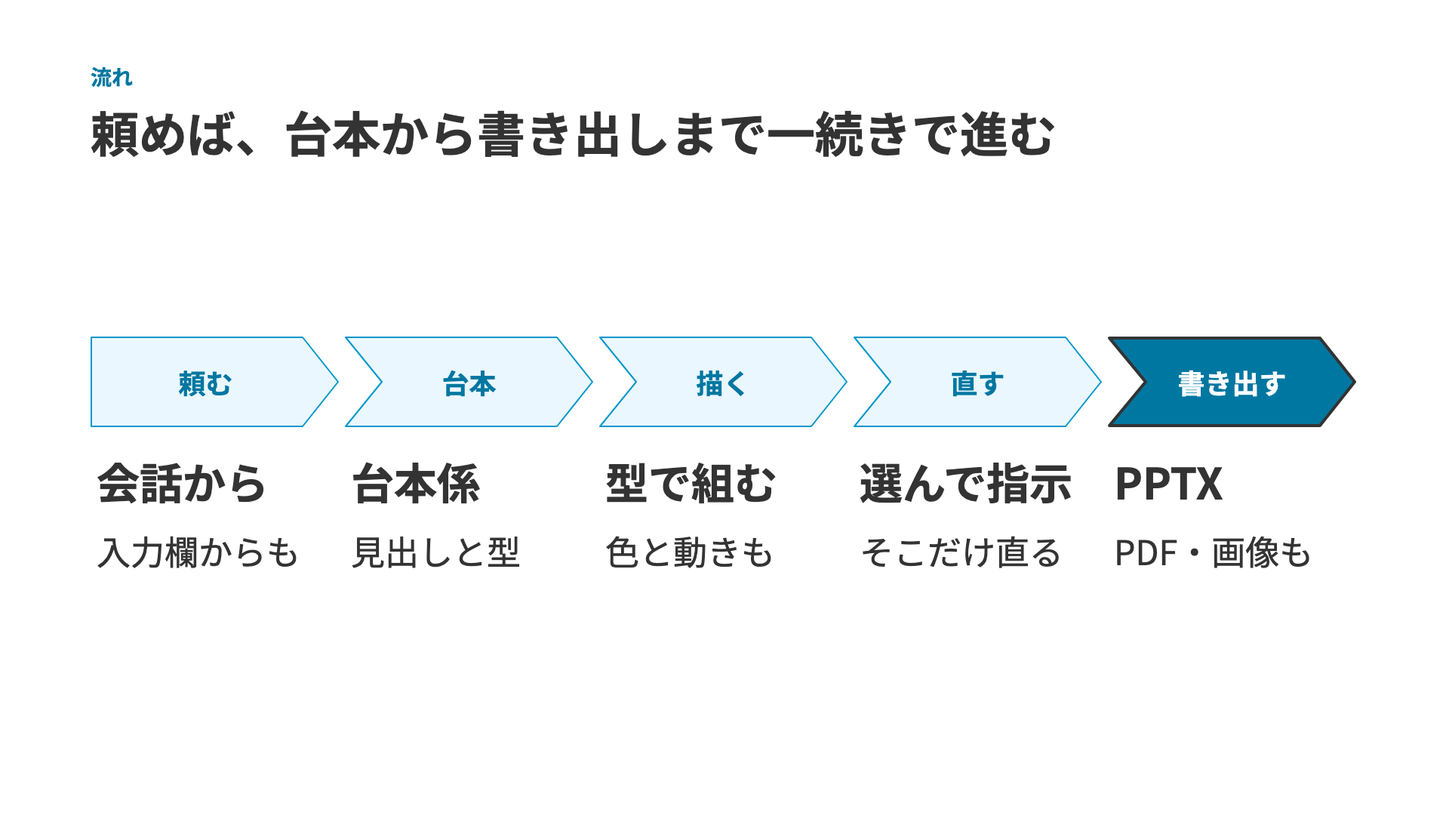
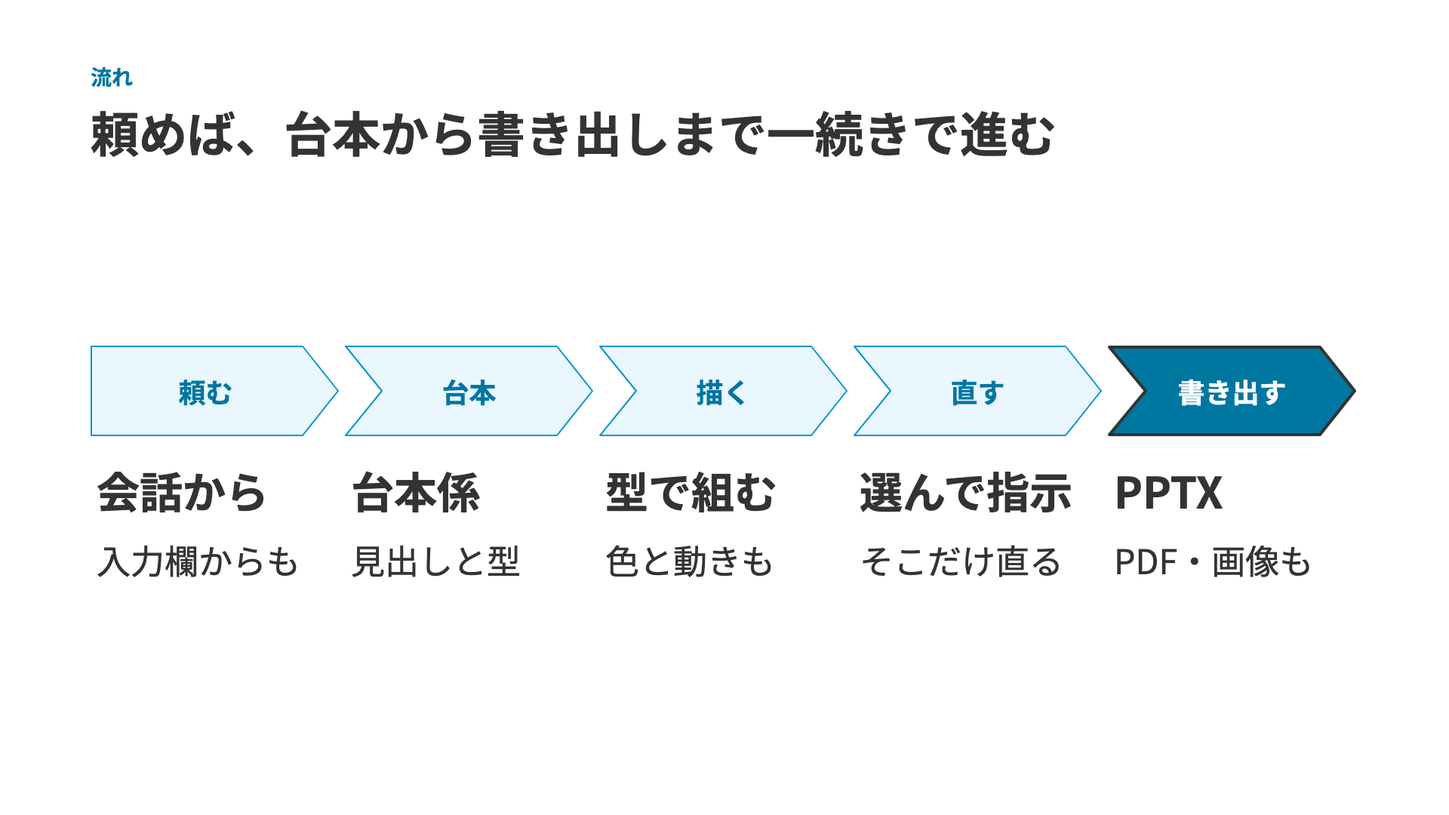
feat(html-slide): 見出しと中身の間を 64 に広げる（入らないページだけ 40 に詰める）
見出しのすぐ下から箱が始まり、窮屈に見えていた。見本 31 枚で、文字の大きさが変わるのは 1 枚。
64 では中身が入らないページは、今までの間（40）で組む（今まで通っていた台本を止めない）。同梱のプレゼンの見本も作り直す。

diff --git a/samples/presentation/built/run/present/deck.html b/samples/presentation/built/run/present/deck.html
@@ -524,39 +524,39 @@
     <section data-slide data-type="equation" data-transition="fade">
       <div class="band" data-keep="band" data-name="上の帯"></div>
       <div class="head" style="width:1680px; top:80px"><div class="kicker" style="font-size:28px" data-name="小見出し">仕組み</div><h1 class="headline" style="font-size:80px; line-height:1.4" data-step="0" data-fx="rise" data-name="見出し">型とブランドと動きが、PowerPoint で<em>直せる資料</em>になる</h1></div>
-      <div class="center" style="left:120px; top:394px; width:1680px; height:558px;"><div class="row" style="height:471px"><div class="card eq-box" style="width:354.00px" data-step="1" data-fx="rise" data-delay="100" data-name="要素1"><div class="icon-disc" style="width:128px; height:128px; border-radius:9999px; background-color:var(--tint); margin-bottom:24px;"><svg width="64" height="64" viewBox="0 -960 960 960"><path d="M480-130 120-410l50-37 310 241 310-241 50 37-360 280Zm0-152L120-562l360-280 360 280-360 280Zm0-301Zm0 225 262-204-262-204-262 204 262 204Z" style="fill:var(--disc-ink, var(--primary-text))"/></svg></div><div class="eq-title" style="font-size:45px">画面の型</div><div class="eq-body" style="font-size:26px">中身に合う形を選ぶ</div></div><div class="eq-op" style="width:88px" data-step="2" data-fx="pop" data-name="＋1">＋</div><div class="card eq-box" style="width:354.00px" data-step="2" data-fx="rise" data-delay="100" data-name="要素2"><div class="icon-disc" style="width:128px; height:128px; border-radius:9999px; background-color:var(--tint); margin-bottom:24px;"><svg width="64" height="64" viewBox="0 -960 960 960"><path d="m388-80-20-126q-19-7-40-19t-37-25l-118 54-93-164 108-79q-2-9-2.5-20.5T185-480q0-9 .5-20.5T188-521L80-600l93-164 118 54q16-13 37-25t40-18l20-127h184l20 126q19 7 40.5 18.5T669-710l118-54 93 164-108 77q2 10 2.5 21.5t.5 21.5q0 10-.5 21t-2.5 21l108 78-93 164-118-54q-16 13-36.5 25.5T592-206L572-80H388Zm48-60h88l14-112q33-8 62.5-25t53.5-41l106 46 40-72-94-69q4-17 6.5-33.5T715-480q0-17-2-33.5t-7-33.5l94-69-40-72-106 46q-23-26-52-43.5T538-708l-14-112h-88l-14 112q-34 7-63.5 24T306-642l-106-46-40 72 94 69q-4 17-6.5 33.5T245-480q0 17 2.5 33.5T254-413l-94 69 40 72 106-46q24 24 53.5 41t62.5 25l14 112Zm44-210q54 0 92-38t38-92q0-54-38-92t-92-38q-54 0-92 38t-38 92q0 54 38 92t92 38Zm0-130Z" style="fill:var(--disc-ink, var(--primary-text))"/></svg></div><div class="eq-title" style="font-size:45px">ブランド</div><div class="eq-body" style="font-size:26px">色・ロゴ・フッタ</div></div><div class="eq-op" style="width:88px" data-step="3" data-fx="pop" data-name="＋2">＋</div><div class="card eq-box" style="width:354.00px" data-step="3" data-fx="rise" data-delay="100" data-name="要素3"><div class="icon-disc" style="width:128px; height:128px; border-radius:9999px; background-color:var(--tint); margin-bottom:24px;"><svg width="64" height="64" viewBox="0 -960 960 960"><path d="m387-311 261-169-261-169v338ZM180-120q-24 0-42-18t-18-42v-600q0-24 18-42t42-18h600q24 0 42 18t18 42v600q0 24-18 42t-42 18H180Zm0-60h600v-600H180v600Zm0-600v600-600Z" style="fill:var(--disc-ink, var(--primary-text))"/></svg></div><div class="eq-title" style="font-size:45px">順に出る動き</div><div class="eq-body" style="font-size:26px">クリックで1つずつ</div></div><div class="eq-op" style="width:88px" data-step="4" data-fx="pop" data-name="＝">＝</div><div class="eq-box eq-res" style="width:354.00px" data-step="4" data-fx="pop" data-delay="150" data-name="答え"><div class="icon-disc" style="width:128px; height:128px; border-radius:9999px; background-color:var(--on-primary); margin-bottom:24px;"><svg width="64" height="64" viewBox="0 -960 960 960"><path d="M180-180h44l472-471-44-44-472 471v44Zm-60 60v-128l575-574q8-8 19-12.5t23-4.5q11 0 22 4.5t20 12.5l44 44q9 9 13 20t4 22q0 11-4.5 22.5T823-694L248-120H120Zm659-617-41-41 41 41Zm-105 64-22-22 44 44-22-22Z" style="fill:var(--disc-ink, var(--primary-text))"/></svg></div><div class="eq-title" style="font-size:57px">直せる PPTX</div><div class="eq-chip" style="font-size:26px">文字も図形も部品</div></div></div></div>
+      <div class="center" style="left:120px; top:418px; width:1680px; height:534px;"><div class="row" style="height:471px"><div class="card eq-box" style="width:354.00px" data-step="1" data-fx="rise" data-delay="100" data-name="要素1"><div class="icon-disc" style="width:128px; height:128px; border-radius:9999px; background-color:var(--tint); margin-bottom:24px;"><svg width="64" height="64" viewBox="0 -960 960 960"><path d="M480-130 120-410l50-37 310 241 310-241 50 37-360 280Zm0-152L120-562l360-280 360 280-360 280Zm0-301Zm0 225 262-204-262-204-262 204 262 204Z" style="fill:var(--disc-ink, var(--primary-text))"/></svg></div><div class="eq-title" style="font-size:45px">画面の型</div><div class="eq-body" style="font-size:26px">中身に合う形を選ぶ</div></div><div class="eq-op" style="width:88px" data-step="2" data-fx="pop" data-name="＋1">＋</div><div class="card eq-box" style="width:354.00px" data-step="2" data-fx="rise" data-delay="100" data-name="要素2"><div class="icon-disc" style="width:128px; height:128px; border-radius:9999px; background-color:var(--tint); margin-bottom:24px;"><svg width="64" height="64" viewBox="0 -960 960 960"><path d="m388-80-20-126q-19-7-40-19t-37-25l-118 54-93-164 108-79q-2-9-2.5-20.5T185-480q0-9 .5-20.5T188-521L80-600l93-164 118 54q16-13 37-25t40-18l20-127h184l20 126q19 7 40.5 18.5T669-710l118-54 93 164-108 77q2 10 2.5 21.5t.5 21.5q0 10-.5 21t-2.5 21l108 78-93 164-118-54q-16 13-36.5 25.5T592-206L572-80H388Zm48-60h88l14-112q33-8 62.5-25t53.5-41l106 46 40-72-94-69q4-17 6.5-33.5T715-480q0-17-2-33.5t-7-33.5l94-69-40-72-106 46q-23-26-52-43.5T538-708l-14-112h-88l-14 112q-34 7-63.5 24T306-642l-106-46-40 72 94 69q-4 17-6.5 33.5T245-480q0 17 2.5 33.5T254-413l-94 69 40 72 106-46q24 24 53.5 41t62.5 25l14 112Zm44-210q54 0 92-38t38-92q0-54-38-92t-92-38q-54 0-92 38t-38 92q0 54 38 92t92 38Zm0-130Z" style="fill:var(--disc-ink, var(--primary-text))"/></svg></div><div class="eq-title" style="font-size:45px">ブランド</div><div class="eq-body" style="font-size:26px">色・ロゴ・フッタ</div></div><div class="eq-op" style="width:88px" data-step="3" data-fx="pop" data-name="＋2">＋</div><div class="card eq-box" style="width:354.00px" data-step="3" data-fx="rise" data-delay="100" data-name="要素3"><div class="icon-disc" style="width:128px; height:128px; border-radius:9999px; background-color:var(--tint); margin-bottom:24px;"><svg width="64" height="64" viewBox="0 -960 960 960"><path d="m387-311 261-169-261-169v338ZM180-120q-24 0-42-18t-18-42v-600q0-24 18-42t42-18h600q24 0 42 18t18 42v600q0 24-18 42t-42 18H180Zm0-60h600v-600H180v600Zm0-600v600-600Z" style="fill:var(--disc-ink, var(--primary-text))"/></svg></div><div class="eq-title" style="font-size:45px">順に出る動き</div><div class="eq-body" style="font-size:26px">クリックで1つずつ</div></div><div class="eq-op" style="width:88px" data-step="4" data-fx="pop" data-name="＝">＝</div><div class="eq-box eq-res" style="width:354.00px" data-step="4" data-fx="pop" data-delay="150" data-name="答え"><div class="icon-disc" style="width:128px; height:128px; border-radius:9999px; background-color:var(--on-primary); margin-bottom:24px;"><svg width="64" height="64" viewBox="0 -960 960 960"><path d="M180-180h44l472-471-44-44-472 471v44Zm-60 60v-128l575-574q8-8 19-12.5t23-4.5q11 0 22 4.5t20 12.5l44 44q9 9 13 20t4 22q0 11-4.5 22.5T823-694L248-120H120Zm659-617-41-41 41 41Zm-105 64-22-22 44 44-22-22Z" style="fill:var(--disc-ink, var(--primary-text))"/></svg></div><div class="eq-title" style="font-size:57px">直せる PPTX</div><div class="eq-chip" style="font-size:26px">文字も図形も部品</div></div></div></div>
       <aside class="notes">［クリック］［クリック］［クリック］［クリック］</aside>
     </section>
     <section data-slide data-type="big-number" data-transition="fade">
       <div class="band" data-keep="band" data-name="上の帯"></div>
       <div class="head" style="width:1680px; top:80px"><div class="kicker" style="font-size:28px" data-name="小見出し">型</div><h1 class="headline" style="font-size:80px; line-height:1.4" data-step="0" data-fx="rise" data-name="見出し">中身の形に合わせて、型を選んで組む</h1></div>
-      <div class="bn-main" style="left:120px; top:282px; width:920px; height:670px;"><div data-step="1" data-fx="pop" data-name="大きな数字"><div class="bn-row"><div class="bn-value" style="font-size:200px">31</div><div class="bn-unit" style="font-size:80px">種</div></div><div class="bn-label" style="font-size:45px">画面の型（比較・グラフ・表・手順など）</div></div></div>
-      <div class="bn-side" style="left:1120px; top:282px; width:680px; height:670px;"><div class="bn-item" style="border-bottom:2px solid var(--rule);" data-step="2" data-fx="rise" data-name="補足1"><div class="bn-item-value" style="font-size:64px">7</div><div class="bn-item-text" style="font-size:36px">この資料で使った型</div></div></div>
+      <div class="bn-main" style="left:120px; top:306px; width:920px; height:646px;"><div data-step="1" data-fx="pop" data-name="大きな数字"><div class="bn-row"><div class="bn-value" style="font-size:200px">31</div><div class="bn-unit" style="font-size:80px">種</div></div><div class="bn-label" style="font-size:45px">画面の型（比較・グラフ・表・手順など）</div></div></div>
+      <div class="bn-side" style="left:1120px; top:306px; width:680px; height:646px;"><div class="bn-item" style="border-bottom:2px solid var(--rule);" data-step="2" data-fx="rise" data-name="補足1"><div class="bn-item-value" style="font-size:64px">7</div><div class="bn-item-text" style="font-size:36px">この資料で使った型</div></div></div>
       <aside class="notes">型は中身の形で選びます。比べるなら比較や表、数字ならグラフ、順番なら矢羽根です。［クリック］この資料も、ページごとに違う型で組んでいます。［クリック］結論を1行で添える帯や、項目に添えるアイコンも使えます。</aside>
     </section>
     <section data-slide data-type="flow" data-transition="fade">
       <div class="band" data-keep="band" data-name="上の帯"></div>
       <div class="head" style="width:1680px; top:80px"><div class="kicker" style="font-size:28px" data-name="小見出し">流れ</div><h1 class="headline" style="font-size:64px; line-height:1.4" data-step="0" data-fx="rise" data-name="見出し">頼めば、台本から書き出しまで一続きで進む</h1></div>
-      <div class="center" style="left:120px; top:260px; width:1680px; height:692px;"><div class="row" style="gap:8px; align-items:flex-start"><div class="flow-item" style="width:329px" data-step="1" data-fx="rise" data-name="矢羽根1"><div class="flow-head" style="height:120px"><svg width="329" height="120" viewBox="0 0 329 120"><polygon points="1,1 281,1 328,60 281,119 1,119" fill="#eaf7ff" stroke="#0096cb" stroke-width="2" stroke-linejoin="round"/></svg><div class="flow-label primary" style="left:24px; top:0px; width:257px; height:120px; font-size:36px">頼む</div></div><div class="flow-text" style="padding:0 16px 0 8px"><div class="flow-title" style="font-size:57px">会話から</div><div class="flow-body" style="font-size:45px">入力欄からも</div></div></div><div class="flow-item" style="width:329px" data-step="2" data-fx="rise" data-name="矢羽根2"><div class="flow-head" style="height:120px"><svg width="329" height="120" viewBox="0 0 329 120"><polygon points="1,1 281,1 328,60 281,119 1,119 49,60" fill="#eaf7ff" stroke="#0096cb" stroke-width="2" stroke-linejoin="round"/></svg><div class="flow-label primary" style="left:48px; top:0px; width:233px; height:120px; font-size:36px">台本</div></div><div class="flow-text" style="padding:0 16px 0 8px"><div class="flow-title" style="font-size:57px">台本係</div><div class="flow-body" style="font-size:45px">見出しと型</div></div></div><div class="flow-item" style="width:329px" data-step="3" data-fx="rise" data-name="矢羽根3"><div class="flow-head" style="height:120px"><svg width="329" height="120" viewBox="0 0 329 120"><polygon points="1,1 281,1 328,60 281,119 1,119 49,60" fill="#eaf7ff" stroke="#0096cb" stroke-width="2" stroke-linejoin="round"/></svg><div class="flow-label primary" style="left:48px; top:0px; width:233px; height:120px; font-size:36px">描く</div></div><div class="flow-text" style="padding:0 16px 0 8px"><div class="flow-title" style="font-size:57px">型で組む</div><div class="flow-body" style="font-size:45px">色と動きも</div></div></div><div class="flow-item" style="width:329px" data-step="4" data-fx="rise" data-name="矢羽根4"><div class="flow-head" style="height:120px"><svg width="329" height="120" viewBox="0 0 329 120"><polygon points="1,1 281,1 328,60 281,119 1,119 49,60" fill="#eaf7ff" stroke="#0096cb" stroke-width="2" stroke-linejoin="round"/></svg><div class="flow-label primary" style="left:48px; top:0px; width:233px; height:120px; font-size:36px">直す</div></div><div class="flow-text" style="padding:0 16px 0 8px"><div class="flow-title" style="font-size:57px">選んで指示</div><div class="flow-body" style="font-size:45px">そこだけ直る</div></div></div><div class="flow-item" style="width:329px" data-step="5" data-fx="rise" data-name="矢羽根5"><div class="flow-head" style="height:120px"><svg width="329" height="120" viewBox="0 0 329 120"><polygon points="2,2 281,2 327,60 281,118 2,118 50,60" fill="#0077a1" stroke="#333333" stroke-width="4" stroke-linejoin="round"/></svg><div class="flow-label on-accent" style="left:48px; top:0px; width:233px; height:120px; font-size:36px">書き出す</div></div><div class="flow-text" style="padding:0 16px 0 8px"><div class="flow-title" style="font-size:57px">PPTX</div><div class="flow-body" style="font-size:45px">PDF・画像も</div></div></div></div></div>
+      <div class="center" style="left:120px; top:284px; width:1680px; height:668px;"><div class="row" style="gap:8px; align-items:flex-start"><div class="flow-item" style="width:329px" data-step="1" data-fx="rise" data-name="矢羽根1"><div class="flow-head" style="height:120px"><svg width="329" height="120" viewBox="0 0 329 120"><polygon points="1,1 281,1 328,60 281,119 1,119" fill="#eaf7ff" stroke="#0096cb" stroke-width="2" stroke-linejoin="round"/></svg><div class="flow-label primary" style="left:24px; top:0px; width:257px; height:120px; font-size:36px">頼む</div></div><div class="flow-text" style="padding:0 16px 0 8px"><div class="flow-title" style="font-size:57px">会話から</div><div class="flow-body" style="font-size:45px">入力欄からも</div></div></div><div class="flow-item" style="width:329px" data-step="2" data-fx="rise" data-name="矢羽根2"><div class="flow-head" style="height:120px"><svg width="329" height="120" viewBox="0 0 329 120"><polygon points="1,1 281,1 328,60 281,119 1,119 49,60" fill="#eaf7ff" stroke="#0096cb" stroke-width="2" stroke-linejoin="round"/></svg><div class="flow-label primary" style="left:48px; top:0px; width:233px; height:120px; font-size:36px">台本</div></div><div class="flow-text" style="padding:0 16px 0 8px"><div class="flow-title" style="font-size:57px">台本係</div><div class="flow-body" style="font-size:45px">見出しと型</div></div></div><div class="flow-item" style="width:329px" data-step="3" data-fx="rise" data-name="矢羽根3"><div class="flow-head" style="height:120px"><svg width="329" height="120" viewBox="0 0 329 120"><polygon points="1,1 281,1 328,60 281,119 1,119 49,60" fill="#eaf7ff" stroke="#0096cb" stroke-width="2" stroke-linejoin="round"/></svg><div class="flow-label primary" style="left:48px; top:0px; width:233px; height:120px; font-size:36px">描く</div></div><div class="flow-text" style="padding:0 16px 0 8px"><div class="flow-title" style="font-size:57px">型で組む</div><div class="flow-body" style="font-size:45px">色と動きも</div></div></div><div class="flow-item" style="width:329px" data-step="4" data-fx="rise" data-name="矢羽根4"><div class="flow-head" style="height:120px"><svg width="329" height="120" viewBox="0 0 329 120"><polygon points="1,1 281,1 328,60 281,119 1,119 49,60" fill="#eaf7ff" stroke="#0096cb" stroke-width="2" stroke-linejoin="round"/></svg><div class="flow-label primary" style="left:48px; top:0px; width:233px; height:120px; font-size:36px">直す</div></div><div class="flow-text" style="padding:0 16px 0 8px"><div class="flow-title" style="font-size:57px">選んで指示</div><div class="flow-body" style="font-size:45px">そこだけ直る</div></div></div><div class="flow-item" style="width:329px" data-step="5" data-fx="rise" data-name="矢羽根5"><div class="flow-head" style="height:120px"><svg width="329" height="120" viewBox="0 0 329 120"><polygon points="2,2 281,2 327,60 281,118 2,118 50,60" fill="#0077a1" stroke="#333333" stroke-width="4" stroke-linejoin="round"/></svg><div class="flow-label on-accent" style="left:48px; top:0px; width:233px; height:120px; font-size:36px">書き出す</div></div><div class="flow-text" style="padding:0 16px 0 8px"><div class="flow-title" style="font-size:57px">PPTX</div><div class="flow-body" style="font-size:45px">PDF・画像も</div></div></div></div></div>
       <aside class="notes">頼んでから書き出すまでの流れです。クリックするたびに1段ずつ出ます。［クリック］まず、会話かホームの入力欄で、作りたい資料を伝えてください。［クリック］すると台本係が、ページごとの見出しと型を決めて台本を書きます。［クリック］次はエンジンの番です。台本どおりに組み、ブランドの色や動きも当てます。［クリック］直したいところは、画面でページを選んで指示してください。そのページだけが変わります。［クリック］仕上がったら、PPTX・PDF・ページの画像に書き出して完成です。</aside>
     </section>
     <section data-slide data-type="cards" data-transition="fade">
       <div class="band" data-keep="band" data-name="上の帯"></div>
       <div class="head" style="width:1680px; top:80px"><div class="kicker" style="font-size:28px" data-name="小見出し">向く資料</div><h1 class="headline" style="font-size:64px; line-height:1.4" data-step="0" data-fx="rise" data-name="見出し">人に説明して、あとで手を入れる資料に向いている</h1></div>
-      <div class="center" style="left:120px; top:260px; width:1680px; height:692px;"><div class="row" style="gap:48px"><div class="card" style="width:384px; height:688px; justify-content:space-between" data-step="1" data-fx="rise" data-name="カード1"><div class="icon-disc" style="width:96px; height:96px; border-radius:9999px; background-color:var(--disc-ground, var(--tint)); margin-bottom:24px;"><svg width="56" height="56" viewBox="0 -960 960 960"><path d="M660-160v-280h140v280H660Zm-250 0v-640h140v640H410Zm-250 0v-440h140v440H160Z" style="fill:var(--disc-ink, var(--primary-text))"/></svg></div><div class="col"><div class="card-title" style="font-size:57px">報告・定例</div><div class="card-body" style="font-size:36px">数字と進み具合</div></div></div><div class="card" style="width:384px; height:688px; justify-content:space-between" data-step="2" data-fx="rise" data-name="カード2"><div class="icon-disc" style="width:96px; height:96px; border-radius:9999px; background-color:var(--disc-ground, var(--tint)); margin-bottom:24px;"><svg width="56" height="56" viewBox="0 -960 960 960"><path d="M324-111.5Q251-143 197-197t-85.5-127Q80-397 80-480t31.5-156Q143-709 197-763t127-85.5Q397-880 480-880t156 31.5Q709-817 763-763t85.5 127Q880-563 880-480t-31.5 156Q817-251 763-197t-127 85.5Q563-80 480-80t-156-31.5ZM721-239q99-99 99-241t-99-241q-99-99-241-99t-241 99q-99 99-99 241t99 241q99 99 241 99t241-99Zm-411-71q-70-70-70-170t70-170q70-70 170-70t170 70q70 70 70 170t-70 170q-70 70-170 70t-170-70Zm297.5-42.5Q660-405 660-480t-52.5-127.5Q555-660 480-660t-127.5 52.5Q300-555 300-480t52.5 127.5Q405-300 480-300t127.5-52.5Zm-184-71Q400-447 400-480t23.5-56.5Q447-560 480-560t56.5 23.5Q560-513 560-480t-23.5 56.5Q513-400 480-400t-56.5-23.5Z" style="fill:var(--disc-ink, var(--primary-text))"/></svg></div><div class="col"><div class="card-title" style="font-size:57px">提案書</div><div class="card-body" style="font-size:36px">筋道を立てて説得</div></div></div><div class="card" style="width:384px; height:688px; justify-content:space-between" data-step="3" data-fx="rise" data-name="カード3"><div class="icon-disc" style="width:96px; height:96px; border-radius:9999px; background-color:var(--disc-ground, var(--tint)); margin-bottom:24px;"><svg width="56" height="56" viewBox="0 -960 960 960"><path d="M560-574v-48q33-14 67.5-21t72.5-7q26 0 51 4t49 10v44q-24-9-48.5-13.5T700-610q-38 0-73 9.5T560-574Zm0 220v-49q33-13.5 67.5-20.25T700-430q26 0 51 4t49 10v44q-24-9-48.5-13.5T700-390q-38 0-73 9t-67 27Zm0-110v-48q33-14 67.5-21t72.5-7q26 0 51 4t49 10v44q-24-9-48.5-13.5T700-500q-38 0-73 9.5T560-464ZM248-300q53.57 0 104.28 12.5Q403-275 452-250v-427q-45-30-97.62-46.5Q301.76-740 248-740q-38 0-74.5 9.5T100-707v434q31-14 70.5-20.5T248-300Zm264 50q50-25 98-37.5T712-300q38 0 78.5 6t69.5 16v-429q-34-17-71.82-25-37.82-8-76.18-8-54 0-104.5 16.5T512-677v427Zm-30 90q-51-38-111-58.5T248-239q-36.54 0-71.77 9T106-208q-23.1 11-44.55-3Q40-225 40-251v-463q0-15 7-27.5T68-761q42-20 87.39-29.5 45.4-9.5 92.61-9.5 63 0 122.5 17T482-731q51-35 109.5-52T712-800q46.87 0 91.93 9.5Q849-781 891-761q14 7 21.5 19.5T920-714v463q0 27.89-22.5 42.45Q875-194 853-208q-34-14-69.23-22.5Q748.54-239 712-239q-63 0-121 21t-109 58ZM276-489Z" style="fill:var(--disc-ink, var(--primary-text))"/></svg></div><div class="col"><div class="card-title" style="font-size:57px">社内の資料</div><div class="card-body" style="font-size:36px">手順や決まりの共有</div></div></div><div class="card" style="width:384px; height:688px; justify-content:space-between" data-step="4" data-fx="rise" data-name="カード4"><div class="icon-disc" style="width:96px; height:96px; border-radius:9999px; background-color:var(--disc-ground, var(--tint)); margin-bottom:24px;"><svg width="56" height="56" viewBox="0 -960 960 960"><path d="M180-180h44l472-471-44-44-472 471v44Zm-60 60v-128l575-574q8-8 19-12.5t23-4.5q11 0 22 4.5t20 12.5l44 44q9 9 13 20t4 22q0 11-4.5 22.5T823-694L248-120H120Zm659-617-41-41 41 41Zm-105 64-22-22 44 44-22-22Z" style="fill:var(--disc-ink, var(--primary-text))"/></svg></div><div class="col"><div class="card-title" style="font-size:57px">自分で仕上げる</div><div class="card-body" style="font-size:36px">PowerPoint で手直し</div></div></div></div></div>
+      <div class="center" style="left:120px; top:284px; width:1680px; height:668px;"><div class="row" style="gap:48px"><div class="card" style="width:384px; height:664px; justify-content:space-between" data-step="1" data-fx="rise" data-name="カード1"><div class="icon-disc" style="width:96px; height:96px; border-radius:9999px; background-color:var(--disc-ground, var(--tint)); margin-bottom:24px;"><svg width="56" height="56" viewBox="0 -960 960 960"><path d="M660-160v-280h140v280H660Zm-250 0v-640h140v640H410Zm-250 0v-440h140v440H160Z" style="fill:var(--disc-ink, var(--primary-text))"/></svg></div><div class="col"><div class="card-title" style="font-size:57px">報告・定例</div><div class="card-body" style="font-size:36px">数字と進み具合</div></div></div><div class="card" style="width:384px; height:664px; justify-content:space-between" data-step="2" data-fx="rise" data-name="カード2"><div class="icon-disc" style="width:96px; height:96px; border-radius:9999px; background-color:var(--disc-ground, var(--tint)); margin-bottom:24px;"><svg width="56" height="56" viewBox="0 -960 960 960"><path d="M324-111.5Q251-143 197-197t-85.5-127Q80-397 80-480t31.5-156Q143-709 197-763t127-85.5Q397-880 480-880t156 31.5Q709-817 763-763t85.5 127Q880-563 880-480t-31.5 156Q817-251 763-197t-127 85.5Q563-80 480-80t-156-31.5ZM721-239q99-99 99-241t-99-241q-99-99-241-99t-241 99q-99 99-99 241t99 241q99 99 241 99t241-99Zm-411-71q-70-70-70-170t70-170q70-70 170-70t170 70q70 70 70 170t-70 170q-70 70-170 70t-170-70Zm297.5-42.5Q660-405 660-480t-52.5-127.5Q555-660 480-660t-127.5 52.5Q300-555 300-480t52.5 127.5Q405-300 480-300t127.5-52.5Zm-184-71Q400-447 400-480t23.5-56.5Q447-560 480-560t56.5 23.5Q560-513 560-480t-23.5 56.5Q513-400 480-400t-56.5-23.5Z" style="fill:var(--disc-ink, var(--primary-text))"/></svg></div><div class="col"><div class="card-title" style="font-size:57px">提案書</div><div class="card-body" style="font-size:36px">筋道を立てて説得</div></div></div><div class="card" style="width:384px; height:664px; justify-content:space-between" data-step="3" data-fx="rise" data-name="カード3"><div class="icon-disc" style="width:96px; height:96px; border-radius:9999px; background-color:var(--disc-ground, var(--tint)); margin-bottom:24px;"><svg width="56" height="56" viewBox="0 -960 960 960"><path d="M560-574v-48q33-14 67.5-21t72.5-7q26 0 51 4t49 10v44q-24-9-48.5-13.5T700-610q-38 0-73 9.5T560-574Zm0 220v-49q33-13.5 67.5-20.25T700-430q26 0 51 4t49 10v44q-24-9-48.5-13.5T700-390q-38 0-73 9t-67 27Zm0-110v-48q33-14 67.5-21t72.5-7q26 0 51 4t49 10v44q-24-9-48.5-13.5T700-500q-38 0-73 9.5T560-464ZM248-300q53.57 0 104.28 12.5Q403-275 452-250v-427q-45-30-97.62-46.5Q301.76-740 248-740q-38 0-74.5 9.5T100-707v434q31-14 70.5-20.5T248-300Zm264 50q50-25 98-37.5T712-300q38 0 78.5 6t69.5 16v-429q-34-17-71.82-25-37.82-8-76.18-8-54 0-104.5 16.5T512-677v427Zm-30 90q-51-38-111-58.5T248-239q-36.54 0-71.77 9T106-208q-23.1 11-44.55-3Q40-225 40-251v-463q0-15 7-27.5T68-761q42-20 87.39-29.5 45.4-9.5 92.61-9.5 63 0 122.5 17T482-731q51-35 109.5-52T712-800q46.87 0 91.93 9.5Q849-781 891-761q14 7 21.5 19.5T920-714v463q0 27.89-22.5 42.45Q875-194 853-208q-34-14-69.23-22.5Q748.54-239 712-239q-63 0-121 21t-109 58ZM276-489Z" style="fill:var(--disc-ink, var(--primary-text))"/></svg></div><div class="col"><div class="card-title" style="font-size:57px">社内の資料</div><div class="card-body" style="font-size:36px">手順や決まりの共有</div></div></div><div class="card" style="width:384px; height:664px; justify-content:space-between" data-step="4" data-fx="rise" data-name="カード4"><div class="icon-disc" style="width:96px; height:96px; border-radius:9999px; background-color:var(--disc-ground, var(--tint)); margin-bottom:24px;"><svg width="56" height="56" viewBox="0 -960 960 960"><path d="M180-180h44l472-471-44-44-472 471v44Zm-60 60v-128l575-574q8-8 19-12.5t23-4.5q11 0 22 4.5t20 12.5l44 44q9 9 13 20t4 22q0 11-4.5 22.5T823-694L248-120H120Zm659-617-41-41 41 41Zm-105 64-22-22 44 44-22-22Z" style="fill:var(--disc-ink, var(--primary-text))"/></svg></div><div class="col"><div class="card-title" style="font-size:57px">自分で仕上げる</div><div class="card-body" style="font-size:36px">PowerPoint で手直し</div></div></div></div></div>
       <aside class="notes">［クリック］［クリック］［クリック］［クリック］</aside>
     </section>
     <section data-slide data-type="table" data-transition="fade">
       <div class="band" data-keep="band" data-name="上の帯"></div>
       <div class="head" style="width:1680px; top:80px"><div class="kicker" style="font-size:28px" data-name="小見出し">モードの選び方</div><h1 class="headline" style="font-size:80px; line-height:1.4" data-step="0" data-fx="rise" data-name="見出し">見せ方に合わせて、3つのモードから選ぶ</h1></div>
-      <div class="table" style="left:120px; top:282px; width:1680px;" data-step="1" data-fx="fade" data-name="表"><div class="tr th" style="height:112px"><div class="td" style="width:240px; justify-content:flex-start"><div style="font-size:28px; text-align:left; font-weight:700;">観点</div></div><div class="td hl" style="width:480px; justify-content:flex-start"><div style="font-size:28px; text-align:left; font-weight:700;">プレゼン</div></div><div class="td" style="width:480px; justify-content:flex-start"><div style="font-size:28px; text-align:left; font-weight:700;">ピッチ</div></div><div class="td" style="width:480px; justify-content:flex-start"><div style="font-size:28px; text-align:left; font-weight:700;">モーション</div></div></div><div class="tr" style="height:112px"><div class="td" style="width:240px; justify-content:flex-start"><div style="font-size:28px; text-align:left; font-weight:700;">描き方</div></div><div class="td hl" style="width:480px; justify-content:flex-start"><div style="font-size:28px; text-align:left; font-weight:700;">型で組む</div></div><div class="td" style="width:480px; justify-content:flex-start"><div style="font-size:28px; text-align:left;">1枚ずつ画像生成</div></div><div class="td" style="width:480px; justify-content:flex-start"><div style="font-size:28px; text-align:left;">クリックで進む Web</div></div></div><div class="tr" style="height:112px"><div class="td" style="width:240px; justify-content:flex-start"><div style="font-size:28px; text-align:left; font-weight:700;">書き出し</div></div><div class="td hl" style="width:480px; justify-content:flex-start"><div style="font-size:28px; text-align:left; font-weight:700;">直せる PPTX・PDF</div></div><div class="td" style="width:480px; justify-content:flex-start"><div style="font-size:28px; text-align:left;">絵の PPTX・PDF</div></div><div class="td" style="width:480px; justify-content:flex-start"><div style="font-size:28px; text-align:left;">HTML 1枚</div></div></div><div class="tr" style="height:112px"><div class="td" style="width:240px; justify-content:flex-start"><div style="font-size:28px; text-align:left; font-weight:700;">向く場面</div></div><div class="td hl" style="width:480px; justify-content:flex-start"><div style="font-size:28px; text-align:left; font-weight:700;">報告・提案・数字</div></div><div class="td" style="width:480px; justify-content:flex-start"><div style="font-size:28px; text-align:left;">印象を残したいとき</div></div><div class="td" style="width:480px; justify-content:flex-start"><div style="font-size:28px; text-align:left;">画面で見せる説明</div></div></div></div>
+      <div class="table" style="left:120px; top:306px; width:1680px;" data-step="1" data-fx="fade" data-name="表"><div class="tr th" style="height:112px"><div class="td" style="width:240px; justify-content:flex-start"><div style="font-size:28px; text-align:left; font-weight:700;">観点</div></div><div class="td hl" style="width:480px; justify-content:flex-start"><div style="font-size:28px; text-align:left; font-weight:700;">プレゼン</div></div><div class="td" style="width:480px; justify-content:flex-start"><div style="font-size:28px; text-align:left; font-weight:700;">ピッチ</div></div><div class="td" style="width:480px; justify-content:flex-start"><div style="font-size:28px; text-align:left; font-weight:700;">モーション</div></div></div><div class="tr" style="height:112px"><div class="td" style="width:240px; justify-content:flex-start"><div style="font-size:28px; text-align:left; font-weight:700;">描き方</div></div><div class="td hl" style="width:480px; justify-content:flex-start"><div style="font-size:28px; text-align:left; font-weight:700;">型で組む</div></div><div class="td" style="width:480px; justify-content:flex-start"><div style="font-size:28px; text-align:left;">1枚ずつ画像生成</div></div><div class="td" style="width:480px; justify-content:flex-start"><div style="font-size:28px; text-align:left;">クリックで進む Web</div></div></div><div class="tr" style="height:112px"><div class="td" style="width:240px; justify-content:flex-start"><div style="font-size:28px; text-align:left; font-weight:700;">書き出し</div></div><div class="td hl" style="width:480px; justify-content:flex-start"><div style="font-size:28px; text-align:left; font-weight:700;">直せる PPTX・PDF</div></div><div class="td" style="width:480px; justify-content:flex-start"><div style="font-size:28px; text-align:left;">絵の PPTX・PDF</div></div><div class="td" style="width:480px; justify-content:flex-start"><div style="font-size:28px; text-align:left;">HTML 1枚</div></div></div><div class="tr" style="height:112px"><div class="td" style="width:240px; justify-content:flex-start"><div style="font-size:28px; text-align:left; font-weight:700;">向く場面</div></div><div class="td hl" style="width:480px; justify-content:flex-start"><div style="font-size:28px; text-align:left; font-weight:700;">報告・提案・数字</div></div><div class="td" style="width:480px; justify-content:flex-start"><div style="font-size:28px; text-align:left;">印象を残したいとき</div></div><div class="td" style="width:480px; justify-content:flex-start"><div style="font-size:28px; text-align:left;">画面で見せる説明</div></div></div></div>
       <div class="take" style="left:440px; top:864px; width:1040px; height:88px;" data-step="1" data-fx="fade" data-delay="500" data-name="締めの帯"><svg width="40" height="40" viewBox="0 -960 960 960"><path d="M453-280h60v-240h-60v240Zm50.5-323.2q9.5-9.2 9.5-22.8 0-14.45-9.48-24.22-9.48-9.78-23.5-9.78t-23.52 9.78Q447-640.45 447-626q0 13.6 9.48 22.8 9.48 9.2 23.5 9.2t23.52-9.2ZM480.27-80q-82.74 0-155.5-31.5Q252-143 197.5-197.5t-86-127.34Q80-397.68 80-480.5t31.5-155.66Q143-709 197.5-763t127.34-85.5Q397.68-880 480.5-880t155.66 31.5Q709-817 763-763t85.5 127Q880-563 880-480.27q0 82.74-31.5 155.5Q817-252 763-197.68q-54 54.31-127 86Q563-80 480.27-80Zm.23-60Q622-140 721-239.5t99-241Q820-622 721.19-721T480-820q-141 0-240.5 98.81T140-480q0 141 99.5 240.5t241 99.5Zm-.5-340Z" style="fill:var(--take-icon, var(--primary-text))"/></svg><div class="take-t" style="font-size:32px">モードは作るときに決め、あとから切り替えられません</div></div>
       <aside class="notes">［クリック］</aside>
     </section>
     <section data-slide data-type="closing" data-transition="fade">
       <div class="band" data-keep="band" data-name="上の帯"></div>
       <div class="head" style="width:1680px; top:80px"><h1 class="headline" style="font-size:80px; line-height:1.4" data-step="0" data-fx="rise" data-name="見出し">この資料は見本です。消しても戻せます</h1></div>
-      <div class="list" style="left:120px; top:232px; width:1680px; height:720px;"><div class="li" style="" data-step="0" data-fx="rise" data-delay="300" data-name="項目1"><div class="li-no">1</div><div class="li-text"><div class="li-title" style="font-size:57px">自由に消せる</div><div class="li-body" style="font-size:45px">設定 › 見本 からいつでも戻せる</div></div></div><div class="li" style="margin-top:64px;" data-step="0" data-fx="rise" data-delay="450" data-name="項目2"><div class="li-no">2</div><div class="li-text"><div class="li-title" style="font-size:57px">会話で頼む</div><div class="li-body" style="font-size:45px">「〇〇をプレゼンにまとめて」</div></div></div><div class="li" style="margin-top:64px;" data-step="0" data-fx="rise" data-delay="600" data-name="項目3"><div class="li-no">3</div><div class="li-text"><div class="li-title" style="font-size:57px">入力欄で頼む</div><div class="li-body" style="font-size:45px">ホームの入力欄に書くだけ</div></div></div></div>
+      <div class="list" style="left:120px; top:256px; width:1680px; height:696px;"><div class="li" style="" data-step="0" data-fx="rise" data-delay="300" data-name="項目1"><div class="li-no">1</div><div class="li-text"><div class="li-title" style="font-size:57px">自由に消せる</div><div class="li-body" style="font-size:45px">設定 › 見本 からいつでも戻せる</div></div></div><div class="li" style="margin-top:64px;" data-step="0" data-fx="rise" data-delay="450" data-name="項目2"><div class="li-no">2</div><div class="li-text"><div class="li-title" style="font-size:57px">会話で頼む</div><div class="li-body" style="font-size:45px">「〇〇をプレゼンにまとめて」</div></div></div><div class="li" style="margin-top:64px;" data-step="0" data-fx="rise" data-delay="600" data-name="項目3"><div class="li-no">3</div><div class="li-text"><div class="li-title" style="font-size:57px">入力欄で頼む</div><div class="li-body" style="font-size:45px">ホームの入力欄に書くだけ</div></div></div></div>
       <aside class="notes"></aside>
     </section>
   </body>

diff --git a/skills/html-slide/scripts/deck_types.py b/skills/html-slide/scripts/deck_types.py
@@ -28,7 +28,8 @@ W, H = 1920, 1080
 X0 = 120                 # 左右の余白
 CW = W - 2 * X0          # 中身の幅 1680
 HEAD_TOP = 80
-BODY_GAP = 40            # 見出しと中身の間（余白の段 4）
+BODY_GAP = 64            # 見出しと中身の間（余白の段 5。40 から広げた・ADR 0030 の追記。見出しのすぐ下から箱が始まり、窮屈に見えていた）
+BODY_GAP_TIGHT = 40      # 64 では中身が入らないページだけ、前の間に詰めて組む（build_slide。今まで通っていた台本を止めない）
 BODY_BOTTOM = 952        # 中身の下端（下の文字とページ番号は 1008 から。上下の余白 64 を引いた 1016 の手前）
 FOOT_H = 33              # 脚注（footnote）1 行ぶんの高さ（22px・行高 1.5）。あれば中身の下端・source をその分だけ上げる
 TAKE_H, TAKE_GAP = 88, 40    # 締めの帯（takeaway）の高さと、中身との間（ADR 0019）
@@ -239,6 +240,7 @@ class Slide:
         self.bottom = self.body_bottom - (TAKE_H + TAKE_GAP if spec.get("takeaway") else 0)
         self.caps: dict[str, int] = {}           # 並ぶ項目の同じ役の文字（カードの題など）の大きさの上限（build_slide がそろえる）
         self.big_head = False                    # 1行に収まる見出しを 80 にするか（build_slide が画像のないページで立てる・ADR 0022）
+        self.body_gap = BODY_GAP                 # 見出しと中身の間（入らないページは build_slide が BODY_GAP_TIGHT に詰める）
         self.seen: dict[str, list[int]] = {}     # 役ごとに、組んだ文字の大きさ
         self.fx = spec.get("fx")
         if self.fx is not None and self.fx not in FX:
@@ -557,7 +559,7 @@ def header(s: Slide, default_headline=None, width=CW, default_kicker=None, top=H
         parts.append(f'<div class="sub" style="font-size:{ss}px" {s.anim(0, "rise", 150, "リード")}>{rich(sub)}</div>')
         h += SPACE[2] + sn * ss * 1.5
     parts.append("</div>")
-    return "".join(parts), top + h + BODY_GAP
+    return "".join(parts), top + h + s.body_gap
 
 
 def source_line(s: Slide, y=None, on_dark=False, width=CW):
@@ -1534,9 +1536,9 @@ def _photo_band(s: Slide):
     head, top = header(s, top=BAND_H + 64)
     parts.append(head)
     if body:
-        room = BODY_BOTTOM - (top - BODY_GAP + 24)
+        room = BODY_BOTTOM - (top - s.body_gap + 24)
         bs, _ = fit(body, 32, CW, what="本文（body）", height=min(room, 32 * 1.6 * 3), lh=1.6, min_size=28)
-        parts.append(f'<div class="sub" style="{box(X0, top - BODY_GAP + 24, CW)} position:absolute; font-size:{bs}px; '
+        parts.append(f'<div class="sub" style="{box(X0, top - s.body_gap + 24, CW)} position:absolute; font-size:{bs}px; '
                      f'line-height:1.6; color:var(--ink)" {s.anim(0, "rise", 300, "本文")}>{rich(body)}</div>')
     return parts
 
@@ -3389,13 +3391,18 @@ def build_slide(s: Slide) -> tuple[list[str], bool]:
     if s.type in RETIRED_TYPES:
         s.warnings.append(f"{s.no}枚目: 型 {s.type} は退役した（{RETIRED_TYPES[s.type]}）。今までどおり描くが、新しい台本では使わない")
     s.big_head = not _has_image(s.spec)        # 画像のないページは、1行に収まる見出しを 80 に（ADR 0022）
-    try:
-        parts = _compose(s, fn)
-    except DeckError:
-        if not s.big_head:
-            raise
-        s.big_head = False                     # 大きな見出しで中身が入らなければ、今までの見出しで組む
-        parts = _compose(s, fn)
+    # 中身が入らなければ、順にゆるめる: 大きな見出し（80）をやめる → 見出しと中身の間を詰める（64 → 40）。どれでも入らなければ、最初の誤りを出す
+    tries = [(True, BODY_GAP), (False, BODY_GAP), (False, BODY_GAP_TIGHT)] if s.big_head else [(False, BODY_GAP), (False, BODY_GAP_TIGHT)]
+    first = None
+    for big, gap in tries:
+        s.big_head, s.body_gap = big, gap
+        try:
+            parts = _compose(s, fn)
+            break
+        except DeckError as e:
+            first = first or e
+    else:
+        raise first
     if s.type in GROWABLE and not _has_image(s.spec) and s.need is not None and s.need < GROW_FILL * s.avail:
         base = {k: min(v) for k, v in s.seen.items() if v}
         for f in GROW_STEPS:                    # 中身が少ないときは、文字を大きくして場所を使う。入る一番大きい倍率

diff --git a/skills/html-slide/docs/adr/0030-free-pages.md b/skills/html-slide/docs/adr/0030-free-pages.md
@@ -161,6 +161,17 @@
 | 棒の上に数字を載せる分の高さを、書く側が勘で引いた | 棒は部品（`f-bars`）にして、エンジンが数字の分を空ける |
 | 箱と箱をつなぐ線・間の矢印を、幅を決めた列で作った | 当面はこの書き方（`f-link`・`f-arrow` の部品にするかは、使われ方を見て決める） |
 
+## 並べて直した余白（2026-11-18）
+
+新しい型で描いた 3 枚を、その場で設計する作り方の版と並べると、窮屈に見えた。測って 2 つ直した。
+
+| 何 | 前 | 後 | 理由 |
+|---|---|---|---|
+| 面の箱どうしの間（自由なページ） | 24 | 横 48・縦 40 | 箱の中の小さな並び用の間を、箱どうしにも使っていた。型のページの箱の間（格子の溝 48）にそろえた |
+| 見出しと中身の間（全部の型） | 40 | 64 | 見出しのすぐ下から箱が始まっていた。見本 31 枚・架空の資料 8 枚・自由なページ 3 枚を両方で描き、誤り・警告は無く、文字の大きさが変わったのは 1 枚（要旨の 3 つの箱の題が 48 → 36）だった |
+
+88 以上に広げる案は見送った（中身に使える高さが減り、文字の下がるページが増える。見出しを大きく組む判断は ADR 0022 のまま）。
+
 ## 確かめること（実装の前に）
 
 - 実題材（14 枚・表と構成図を含む）で同じ試しをし、PowerPoint で開いて、部品として直せるか・グループの扱いを人が見る

diff --git a/skills/dads/references/slide-local.md b/skills/dads/references/slide-local.md
@@ -105,8 +105,8 @@
 | `space-1` | 8 | アイコンとラベルの間の細かい隙間（16 の半分）・キッカーと見出しの間・表のセルの上下 |
 | `space-2` | 16 | 箱の中の項目の間・見出しと副題の間・札の内側 |
 | `space-3` | 24 | 箱の内側の余白（小さい箱）・本文の項目の間 |
-| `space-4` | 40 | 箱の内側の余白（カード）・見出しと中身の間 |
-| `space-5` | 64 | 段落の間・上下の余白・塊と塊の間 |
+| `space-4` | 40 | 箱の内側の余白（カード） |
+| `space-5` | 64 | 段落の間・上下の余白・塊と塊の間・見出しと中身の間 |
 
 - **版の余白（左右）= 120**（計画）。上下の余白は **64**（提案。`page_margin_y`）
 - 近い要素は関連があるとみなされる。関連の強いものを近く、弱いものを遠くに置く（DADS の「余白による関係性」）。見出しのレベルが下がるほど、見出しと本文の間も狭くする

diff --git a/skills/html-slide/docs/adr/0020-dads-foundations.md b/skills/html-slide/docs/adr/0020-dads-foundations.md
@@ -93,3 +93,7 @@
 ## 追記（2026-11-18）箱の枠は classic だけの決まりに
 
 決めたことの 5. の「箱は外周の枠を持つ」は、スタイル `classic` だけの決まりになった。既定の `standard` は枠なしの淡い面にした（[ADR 0029](0029-design-direction-per-deck.md)）。文字と図形のコントラストの決まり（4.5・3.0）は変えていない。
+
+## 追記（2026-11-18）見出しと中身の間を 64 に
+
+決めたことの 4. の「見出しと中身の間 `BODY_GAP` 56 → 40」は、64（余白の段 5）に改めた。見出しのすぐ下から箱が始まり、窮屈に見えていたため（[ADR 0030](0030-free-pages.md) の追記）。
